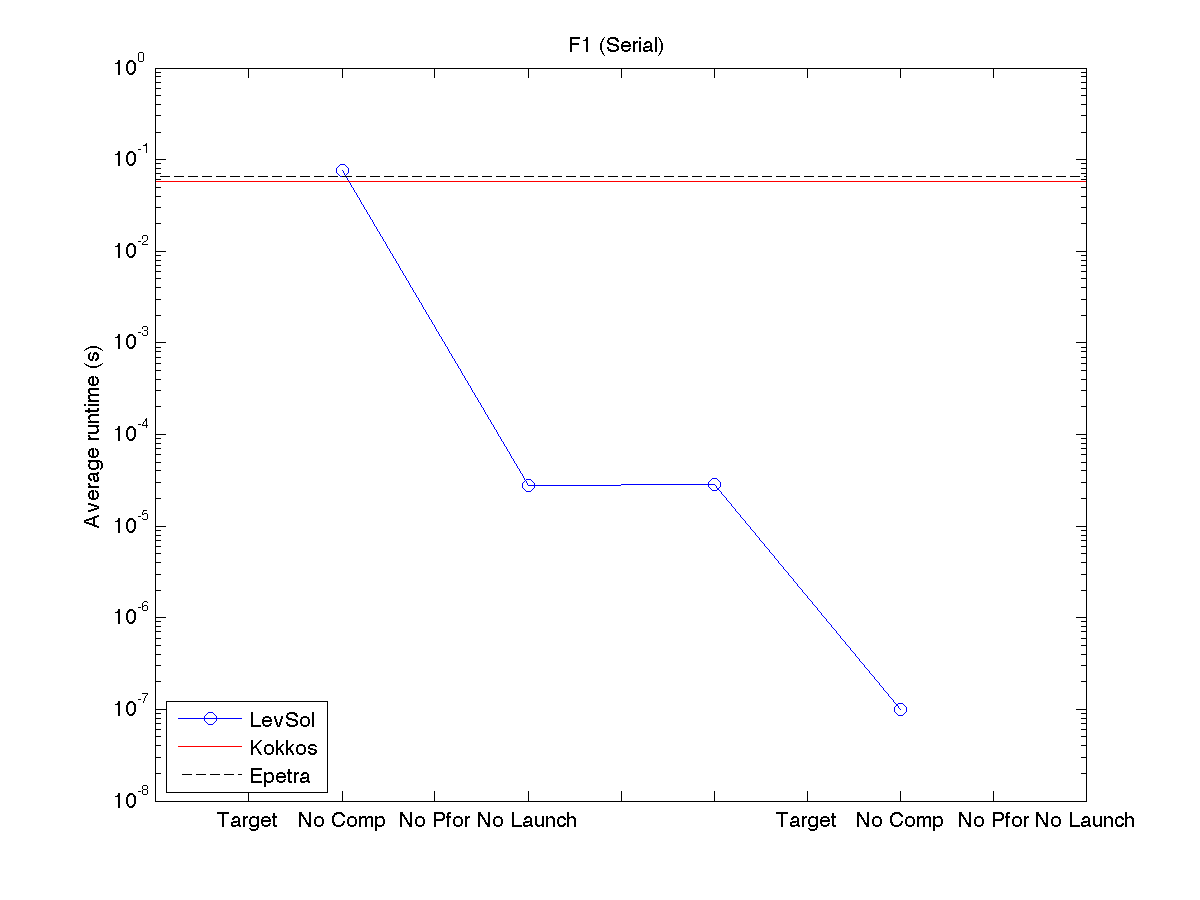
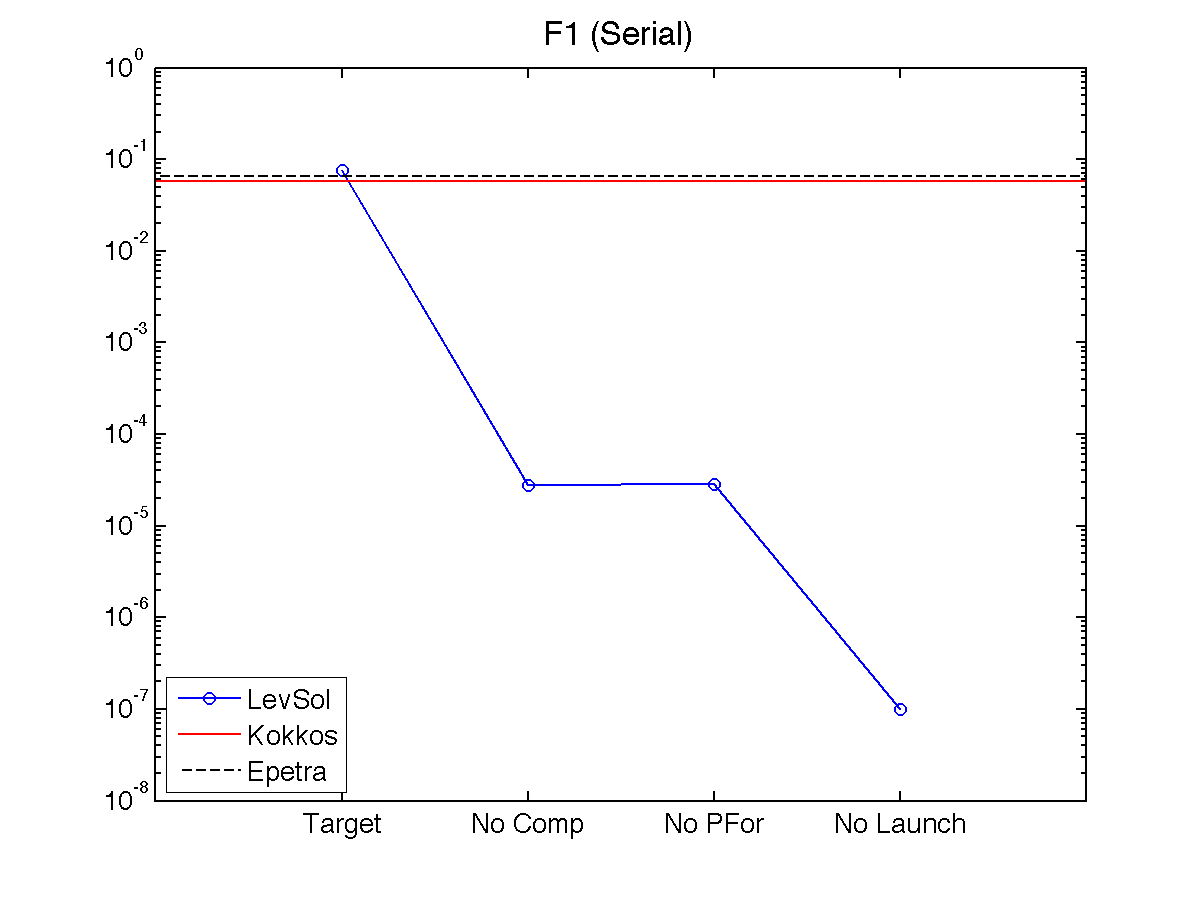
Improved readability of figures.

diff --git a/packages/kokkos/doc/IsorropiaLevelSolver/LevelSolverBenchmarking.tex b/packages/kokkos/doc/IsorropiaLevelSolver/LevelSolverBenchmarking.tex
@@ -64,18 +64,18 @@ The \texttt{LevelSolver} class stores two primary groups of information: the lev
 
 \begin{figure}[htbp]
      \centering
-      \subfigure[cap]{ %\label{lbl}
-          \includegraphics[width=8.9cm]{data/inline_1_serial.png}}
-      \subfigure[cap]{ %\label{lbl}
-          \includegraphics[width=8.9cm]{data/F1_serial.png}}
-      \subfigure[cap]{ %\label{lbl}
-          \includegraphics[width=8.9cm]{data/boneS10_serial.png}}
-      \subfigure[cap]{ %\label{lbl}
-          \includegraphics[width=8.9cm]{data/bmwcra_serial.png}}
-      \subfigure[cap]{ %\label{lbl}
-          \includegraphics[width=8.9cm]{data/bmw7_serial.png}}
-      \subfigure[cap]{ %\label{lbl}
-          \includegraphics[width=8.9cm]{data/bmw3_2_serial.png}}
+      \subfigure{ %\label{lbl}
+          \includegraphics[width=9.05cm]{data/inline_1_serial.png}}
+      \subfigure{ %\label{lbl}
+          \includegraphics[width=9.05cm]{data/F1_serial.png}}
+      \subfigure{ %\label{lbl}
+          \includegraphics[width=9.05cm]{data/boneS10_serial.png}}
+      \subfigure{ %\label{lbl}
+          \includegraphics[width=9.05cm]{data/bmwcra_serial.png}}
+      \subfigure{ %\label{lbl}
+          \includegraphics[width=9.05cm]{data/bmw7_serial.png}}
+      \subfigure{ %\label{lbl}
+          \includegraphics[width=9.05cm]{data/bmw3_2_serial.png}}
 \caption{Results for serial node.}
 \label{lbl:serialfigs}
 \end{figure}
@@ -83,18 +83,18 @@ The \texttt{LevelSolver} class stores two primary groups of information: the lev
 
 \begin{figure}[htbp]
      \centering
-      \subfigure[cap]{ %\label{lbl}
-          \includegraphics[width=8.9cm]{data/inline_1_tpi.png}}
-      \subfigure[cap]{ %\label{lbl}
-          \includegraphics[width=8.9cm]{data/F1_tpi.png}}
-      \subfigure[cap]{ %\label{lbl}
-          \includegraphics[width=8.9cm]{data/boneS10_tpi.png}}
-      \subfigure[cap]{ %\label{lbl}
-          \includegraphics[width=8.9cm]{data/bmwcra_tpi.png}}
-      \subfigure[cap]{ %\label{lbl}
-          \includegraphics[width=8.9cm]{data/bmw7_tpi.png}}
-      \subfigure[cap]{ %\label{lbl}
-          \includegraphics[width=8.9cm]{data/bmw3_2_tpi.png}}
+      \subfigure{ %\label{lbl}
+          \includegraphics[width=9.05cm]{data/inline_1_tpi.png}}
+      \subfigure{ %\label{lbl}
+          \includegraphics[width=9.05cm]{data/F1_tpi.png}}
+      \subfigure{ %\label{lbl}
+          \includegraphics[width=9.05cm]{data/boneS10_tpi.png}}
+      \subfigure{ %\label{lbl}
+          \includegraphics[width=9.05cm]{data/bmwcra_tpi.png}}
+      \subfigure{ %\label{lbl}
+          \includegraphics[width=9.05cm]{data/bmw7_tpi.png}}
+      \subfigure{ %\label{lbl}
+          \includegraphics[width=9.05cm]{data/bmw3_2_tpi.png}}
 \caption{Results for TPI node.}
 \label{lbl:tpifigs}
 \end{figure}
@@ -102,18 +102,18 @@ The \texttt{LevelSolver} class stores two primary groups of information: the lev
 
 \begin{figure}[htbp]
      \centering
-      \subfigure[cap]{ %\label{lbl}
-          \includegraphics[width=8.9cm]{data/inline_1_tbb.png}}
-      \subfigure[cap]{ %\label{lbl}
-          \includegraphics[width=8.9cm]{data/F1_tbb.png}}
-      \subfigure[cap]{ %\label{lbl}
-          \includegraphics[width=8.9cm]{data/boneS10_tbb.png}}
-      \subfigure[cap]{ %\label{lbl}
-          \includegraphics[width=8.9cm]{data/bmwcra_tbb.png}}
-      \subfigure[cap]{ %\label{lbl}
-          \includegraphics[width=8.9cm]{data/bmw7_tbb.png}}
-      \subfigure[cap]{ %\label{lbl}
-          \includegraphics[width=8.9cm]{data/bmw3_2_tbb.png}}
+      \subfigure{ %\label{lbl}
+          \includegraphics[width=9.05cm]{data/inline_1_tbb.png}}
+      \subfigure{ %\label{lbl}
+          \includegraphics[width=9.05cm]{data/F1_tbb.png}}
+      \subfigure{ %\label{lbl}
+          \includegraphics[width=9.05cm]{data/boneS10_tbb.png}}
+      \subfigure{ %\label{lbl}
+          \includegraphics[width=9.05cm]{data/bmwcra_tbb.png}}
+      \subfigure{ %\label{lbl}
+          \includegraphics[width=9.05cm]{data/bmw7_tbb.png}}
+      \subfigure{ %\label{lbl}
+          \includegraphics[width=9.05cm]{data/bmw3_2_tbb.png}}
 \caption{Results for TBB node.}
 \label{lbl:tbbfigs}
 \end{figure}

diff --git a/packages/kokkos/doc/IsorropiaLevelSolver/data/CGBPlot2.m b/packages/kokkos/doc/IsorropiaLevelSolver/data/CGBPlot2.m
@@ -1,4 +1,4 @@
-function CGBPlot2(ALLDATA);
+function CGBPlot2(fn,ALLDATA,tpiortbb);
   ts = size(ALLDATA,1) / 4;
   TARGET = ALLDATA(0*ts+1:1*ts,:);
   NOLNCH = ALLDATA(1*ts+1:2*ts,:);
@@ -36,28 +36,35 @@ function CGBPlot2(ALLDATA);
   % plot
   lbls = {};
   fig = figure;
-  loglog(KokkosTime(:,1),KokkosTime(:,2),'-+r'); 
+  res = loglog(KokkosTime(:,1),KokkosTime(:,2),'-+r'); 
+  set(res,'LineWidth',1.0);
   lbls = {lbls{:} 'Kokkos'};
   hold on;
-  loglog(LS_TARGET(:,1),LS_TARGET(:,2),'-ob');
+  res = loglog(LS_TARGET(:,1),LS_TARGET(:,2),'-ob');
+  set(res,'LineWidth',1.0);
   lbls = {lbls{:} 'LevSol (target)'};
-  loglog(LS_NOCOMP(:,1),LS_NOCOMP(:,2),'-.db');
+  res = loglog(LS_NOCOMP(:,1),LS_NOCOMP(:,2),'-.db');
+  set(res,'LineWidth',1.0);
   lbls = {lbls{:} 'LevSol (no comp)'};
-  loglog(LS_NOPFOR(:,1),LS_NOPFOR(:,2),'--sb');
+  res = loglog(LS_NOPFOR(:,1),LS_NOPFOR(:,2),'--sb');
+  set(res,'LineWidth',1.0);
   lbls = {lbls{:} 'LevSol (no pfor)'};
-  loglog(LS_NOLNCH(:,1),LS_NOLNCH(:,2),':*b');
+  res = loglog(LS_NOLNCH(:,1),LS_NOLNCH(:,2),':*b');
+  set(res,'LineWidth',1.0);
   lbls = {lbls{:} 'LevSol (no launch)'};
   eline = line(get(gca,'XLim'),[EpetraTime EpetraTime]);
   lbls = {lbls{:} 'Epetra'};
+  set(eline,'LineWidth',1.0);
   set(eline,'Color',[0 0 0]);
   set(gca,'XTickLabel',Threads);
   set(gca,'XTick',Threads);
   set(gca,'XLim',[min(Threads)-eps,max(Threads)+eps]);
   set(gca,'YLim',[1e-8 1]);
-  legend(lbls{:},'Location','SouthEast');
-  xlabel('Number of Threads');
-  ylabel('Average runtime (s)');
+  l = legend(lbls{:},'Location','SouthEast');
+  set(l,'FontSize',13);
+  set(gca,'FontSize',13);
+  xlabel('Number of Threads','FontSize',14);
+  ylabel('Average runtime (s)','FontSize',14);
   grid off;
-  fn = inputname(1);
-  title(strcat(fn, ' (TPI)'));
-  saveas(fig,strcat(fn,'_tpi.png'),'png');
+  title(deTeX(sprintf('%s (%s)',fn,upper(tpiortbb))),'FontSize',16);
+  saveas(fig,sprintf('%s_%s.png',fn,lower(tpiortbb)),'png');

diff --git a/packages/kokkos/doc/IsorropiaLevelSolver/data/CGBPlot1.m b/packages/kokkos/doc/IsorropiaLevelSolver/data/CGBPlot1.m
@@ -1,4 +1,4 @@
-function CGBPlot2(ALLDATA);
+function CGBPlot2(fn,ALLDATA);
   ts = size(ALLDATA,1) / 4;
   TARGET = ALLDATA(1:3,:);
   NOLNCH = ALLDATA(4:6,:);
@@ -30,23 +30,29 @@ function CGBPlot2(ALLDATA);
   % plot
   lbls = {};
   fig = figure;
-  semilogy([1 2 3 4],[LS_TARGET LS_NOCOMP LS_NOPFOR LS_NOLNCH],'-ob');
+  res = semilogy([1 2 3 4],[LS_TARGET LS_NOCOMP LS_NOPFOR LS_NOLNCH],'-ob');
+  set(res,'LineWidth',1.0);
   hold on;
-  xlbls = {'' 'Target' 'No Comp' 'No Pfor' 'No Launch' ''};
+  xlbls = {'' 'Target' 'No Comp' 'No PFor' 'No Launch' ''};
   lbls = {lbls{:} 'LevSol'};
   kline = line([0 5],[KokkosTime KokkosTime]);
   lbls = {lbls{:} 'Kokkos'};
   set(kline,'Color',[1 0 0]);
+  set(kline,'LineWidth',1.0);
   eline = line([0 5],[EpetraTime EpetraTime]);
   lbls = {lbls{:} 'Epetra'};
   set(eline,'Color',[0 0 0]);
   set(eline,'LineStyle','--');
+  set(eline,'LineWidth',1.0);
   set(gca,'XTickLabel',xlbls);
+  set(gca,'XTick',[0:5])
   set(gca,'XLim',[0 5]);
   set(gca,'YLim',[1e-8 1]);
-  legend(lbls{:},'Location','SouthWest');
-  ylabel('Average runtime (s)');
+  set(gca,'FontSize',13);
+  set(gca,'LineWidth',1.0);
+  l = legend(lbls{:},'Location','SouthWest');
+  set(l,'FontSize',13);
+  %ylabel('Average runtime (s)','FontSize',14);
   grid off;
-  fn = inputname(1);
-  title(strcat(fn, ' (Serial)'));
+  title(deTeX(strcat(fn, ' (Serial)')),'FontSize',16);
   saveas(fig,strcat(fn,'_serial.png'),'png');

diff --git a/packages/kokkos/doc/IsorropiaLevelSolver/data/doall.m b/packages/kokkos/doc/IsorropiaLevelSolver/data/doall.m
@@ -1,0 +1,15 @@
+F = {'F1','bmw3_2','bmw7','bmwcra','boneS10','inline_1'};
+for i=1:length(F),
+    DAT = load(strcat(F{i},'.serial.alllog'));
+    CGBPlot1(F{i},DAT); close;
+end
+
+for i=1:length(F),
+    DAT = load(strcat(F{i},'.tbb.alllog'));
+    CGBPlot2(F{i},DAT,'tbb'); close;
+end
+
+for i=1:length(F),
+    DAT = load(strcat(F{i},'.alllog'));
+    CGBPlot2(F{i},DAT,'tpi'); close;
+end

diff --git a/packages/kokkos/doc/IsorropiaLevelSolver/data/deTeX.m b/packages/kokkos/doc/IsorropiaLevelSolver/data/deTeX.m
@@ -1,0 +1,2 @@
+function dt = deTeX(str);
+   dt = strrep(str,'_','\_');
